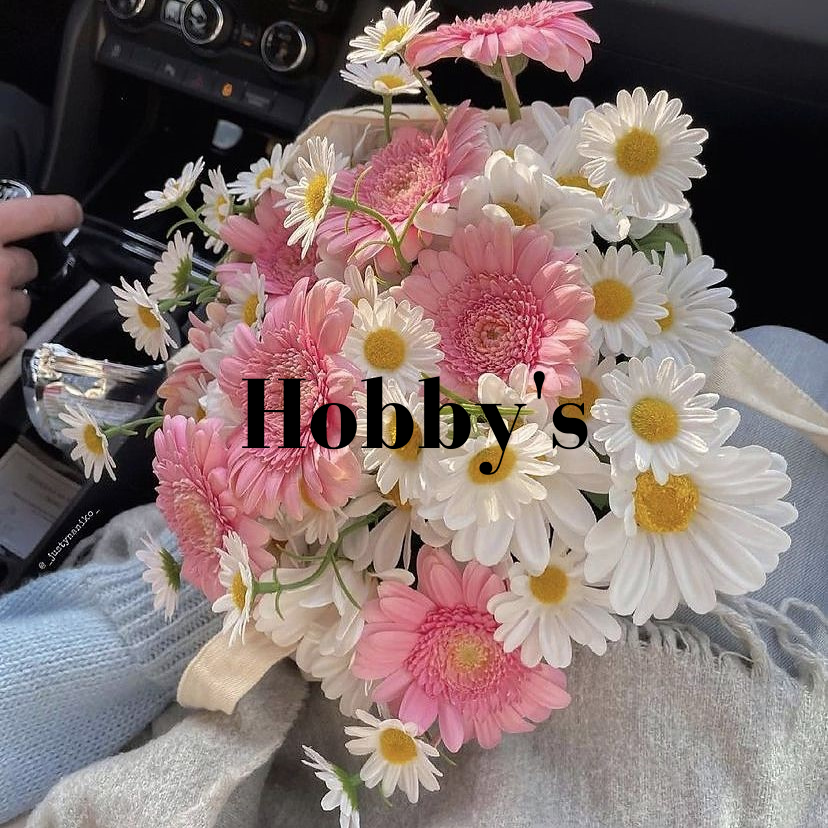
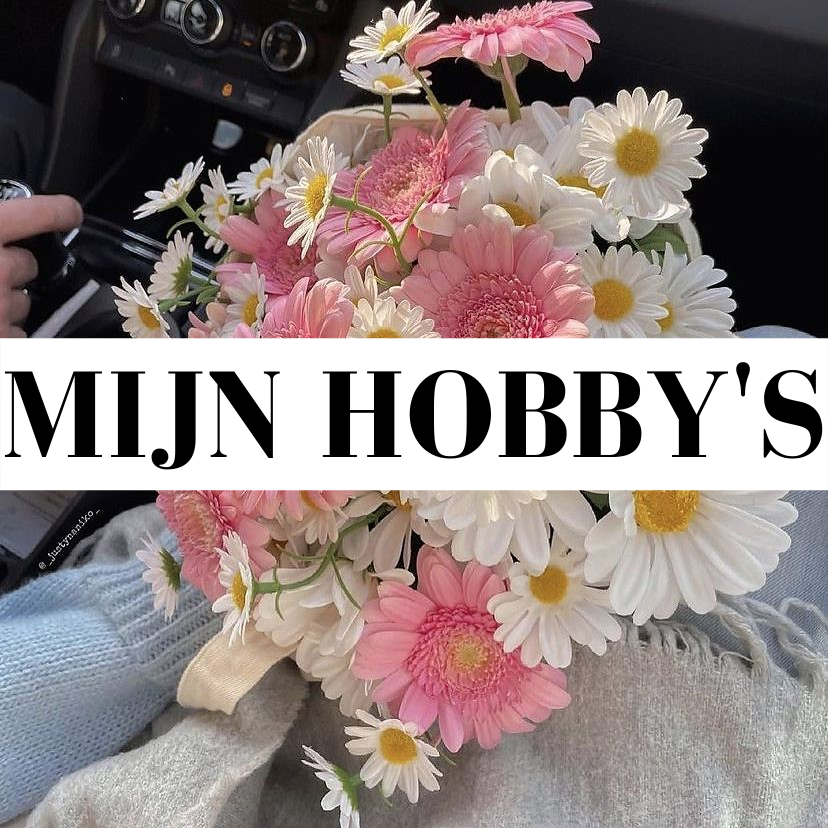
Veel

Changed region(s): [[0.0, 0.3925, 1.0, 0.6039]]

diff --git a/overMij/index.html b/overMij/index.html
@@ -6,13 +6,9 @@
     </head>
     <body>
         <h1>Wie ben ik?</h1>
-        <a href="familie.html"><img src="Hobby's.png" alt="hobby's" class="image" /></a>
-          <p>Hoi! Ik ben Tessa, ik ben 15 jaar en woon in Haren. Ik ben geboren op 21 augustus 2006. 
-              Ik heb een zus, zij heet Anne. We(mijn familie) hebben ook twee katten en drie katten. Onze katten heten Job en Lotje en de kippen hebben geen namen. 
-              In mijn vrije tijd ben ik veel creatief bezig. Ik vind het leuk om dingen te maken. 
-              Bijvoorbeeld een spijkerjas van oude spijkerbroeken maken, een topje breien, sieraden maken, een tekening of schilderijtje maken, een gerecht koken, mooie dingen fotograferen of om online iets te maken. 
-              Mij lijkt het ook heel erg leuk om deze website te maken en om het helemaal mooi af te werken met CSS. In mijn vrije tijd kijk ik ook Netflix en ik dans veel. 
-              <br/><br/>Ik maak deze website voor het vak Informatica. 
-            </p>
+            <p>Hoi! Ik ben Tessa, ik ben 15 jaar en woon in Haren. Ik ben geboren op 21 augustus 2006. 
+            Ik heb een zus, zij heet Anne. We(mijn familie) hebben ook twee katten en drie katten. Onze katten heten Job en Lotje en de kippen hebben geen namen. 
+            <br/><br/>Ik maak deze website voor het vak Informatica. </p>
+            <a href="hobby's.html"><img src="Hobby's.png" alt="hobby's" class="image" /></a>
     </body>
 </html>

diff --git a/overMij/hobby's.html b/overMij/hobby's.html
@@ -1,0 +1,21 @@
+<!DOCTYPE html>
+<html>
+    <head>
+        <title>Wie is Tessa? - hobby's</title>
+        <link href='style.css' rel='stylesheet'>
+    </head>
+    <body>
+        <h3>Mijn hobby's</h3>
+        <p> In mijn vrije tijd ben ik veel creatief bezig. Ik vind het leuk om dingen te maken. Bijvoorbeeld:</p>
+            <ul>
+                <li>Een spijkerjas naaien van oude spijkerbroeken;</li>
+                <li>Een topje breien;</li>
+                <li>Sieraden maken, zoals kettingen, armbandjes en enkelbandjes;</li>
+                <li>Een tekening of schilderijtje maken;</li>
+                <li>Een gerecht koken;</li>
+                <li>Mooie dingen fotograferen, zoals de natuur, mooie gebouwen en steden of kunst;</li>
+                <li>Of om online iets moois te maken.<br/>Mij lijkt het ook heel erg leuk om deze website te maken en om het helemaal mooi af te werken met CSS.</li>
+            </ul>
+        <p>Ik kijk ook series op Netflix in mijn vrije tijd. Ik dans twee keer in de week klasiek Ballet waarvan een keer op Spitzen.</p>
+    </body>
+</html>

diff --git a/overMij/style.css b/overMij/style.css
@@ -1,6 +1,6 @@
 *{
     font-family:-apple-system, BlinkMacSystemFont, 'Segoe UI', Roboto, Oxygen, Ubuntu, Cantarell, 'Open Sans', 'Helvetica Neue', sans-serif;
-    background-color: beige;
+    background-color: rgb(214, 235, 232);
 }
 
 p{
@@ -13,7 +13,7 @@ h1, h2, h3{
 
 h1{
     background-color: aliceblue;
-    color:rgb(0, 0, 44);
+    color:rgb(22, 73, 90, 0.89);
 }
 
 h3{
@@ -33,6 +33,7 @@ h2{
 
 li{
     list-style-type: square;
+    font-family: ca
 }
 
 a{
@@ -40,5 +41,5 @@ a{
 }
 
 .image {
-    width: 200px;
+    width: 300px;
 }
